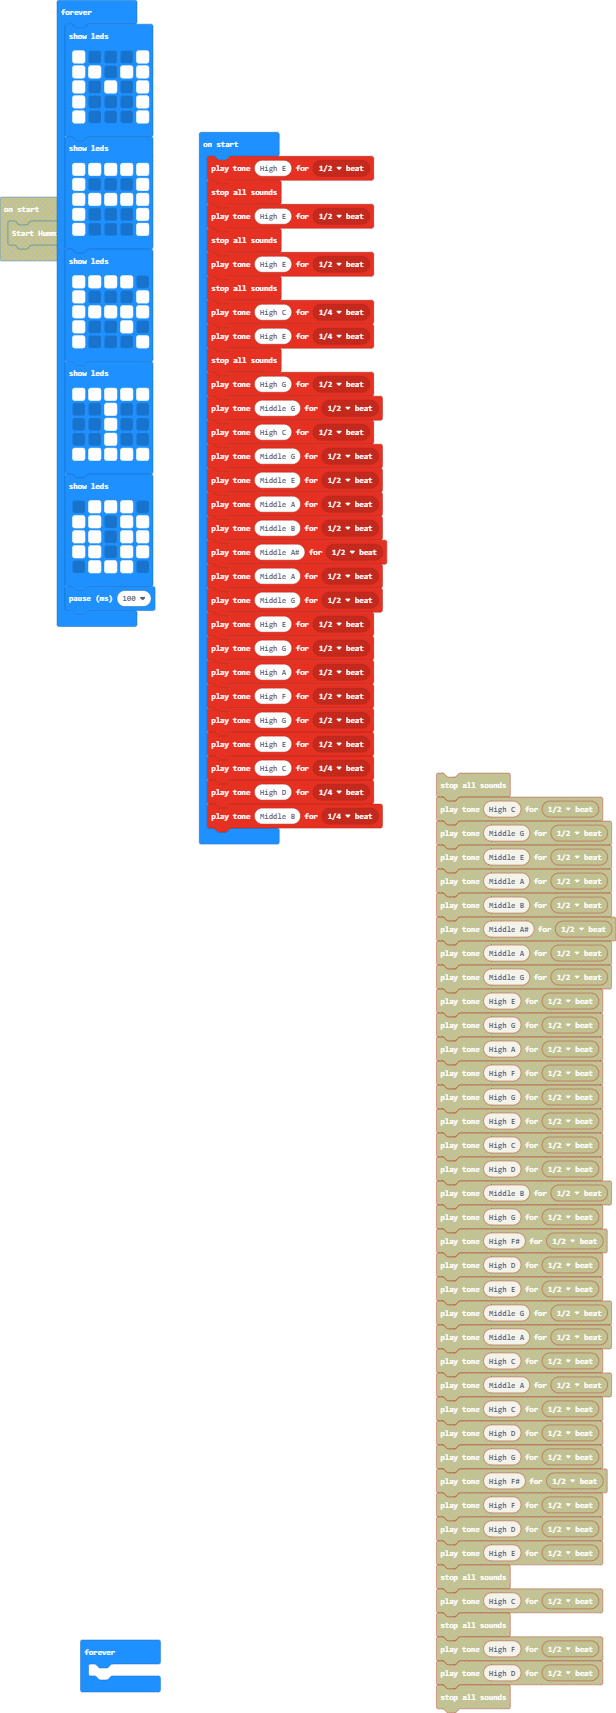
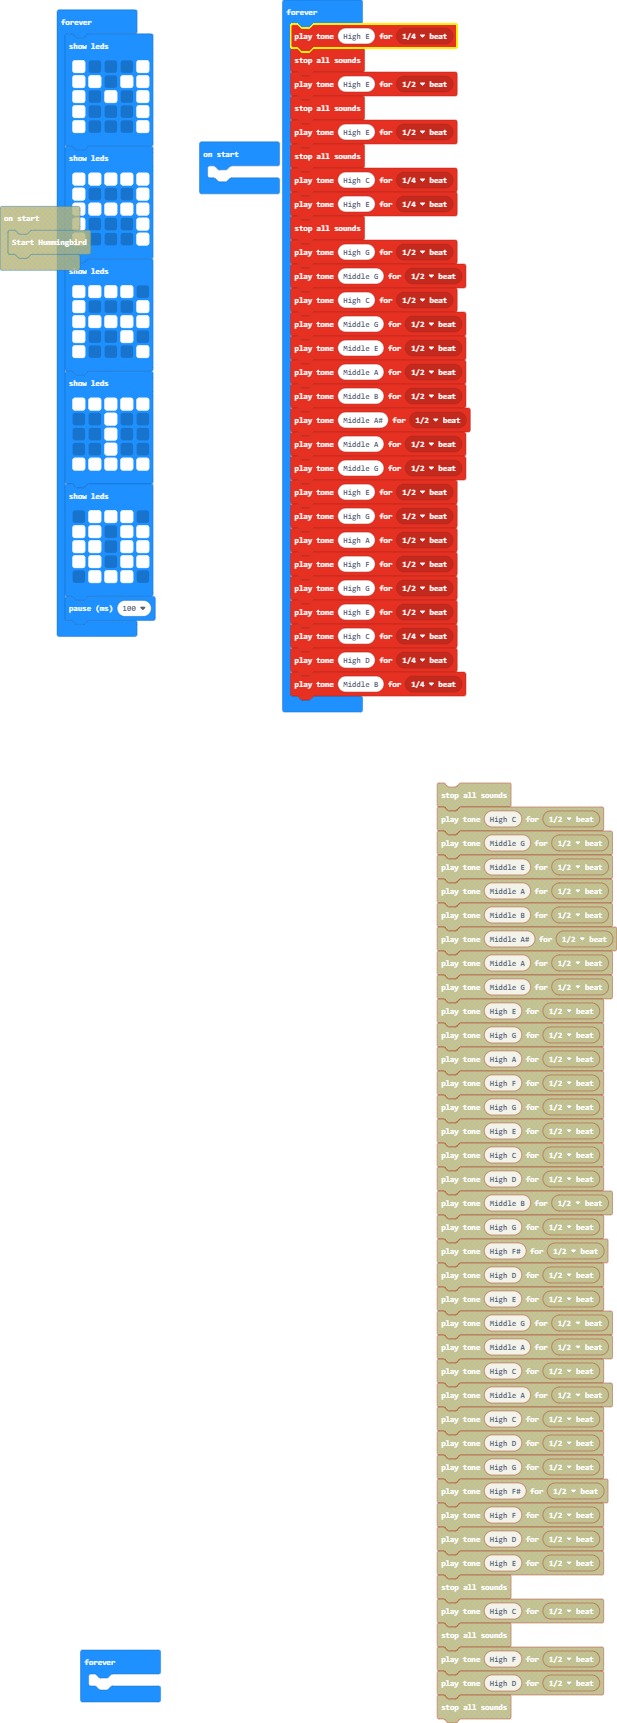
Update main.blocks, main.ts

Changed region(s): [[0.3084, 0.0, 0.7711, 0.495], [0.7094, 0.4332, 1.0, 0.9901], [0.0, 0.0, 0.2468, 0.3713]]

diff --git a/main.ts b/main.ts
@@ -1,31 +1,3 @@
-music.playTone(659, music.beat(BeatFraction.Half))
-music.stopAllSounds()
-music.playTone(659, music.beat(BeatFraction.Half))
-music.stopAllSounds()
-music.playTone(659, music.beat(BeatFraction.Half))
-music.stopAllSounds()
-music.playTone(523, music.beat(BeatFraction.Quarter))
-music.playTone(659, music.beat(BeatFraction.Quarter))
-music.stopAllSounds()
-music.playTone(784, music.beat(BeatFraction.Half))
-music.playTone(392, music.beat(BeatFraction.Half))
-music.playTone(523, music.beat(BeatFraction.Half))
-music.playTone(392, music.beat(BeatFraction.Half))
-music.playTone(330, music.beat(BeatFraction.Half))
-music.playTone(440, music.beat(BeatFraction.Half))
-music.playTone(494, music.beat(BeatFraction.Half))
-music.playTone(466, music.beat(BeatFraction.Half))
-music.playTone(440, music.beat(BeatFraction.Half))
-music.playTone(392, music.beat(BeatFraction.Half))
-music.playTone(659, music.beat(BeatFraction.Half))
-music.playTone(784, music.beat(BeatFraction.Half))
-music.playTone(880, music.beat(BeatFraction.Half))
-music.playTone(698, music.beat(BeatFraction.Half))
-music.playTone(784, music.beat(BeatFraction.Half))
-music.playTone(659, music.beat(BeatFraction.Half))
-music.playTone(523, music.beat(BeatFraction.Quarter))
-music.playTone(587, music.beat(BeatFraction.Quarter))
-music.playTone(494, music.beat(BeatFraction.Quarter))
 basic.forever(function () {
     basic.showLeds(`
         # . . . #
@@ -63,6 +35,36 @@ basic.forever(function () {
         . # # # .
         `)
     basic.pause(100)
+})
+basic.forever(function () {
+    music.playTone(659, music.beat(BeatFraction.Quarter))
+    music.stopAllSounds()
+    music.playTone(659, music.beat(BeatFraction.Half))
+    music.stopAllSounds()
+    music.playTone(659, music.beat(BeatFraction.Half))
+    music.stopAllSounds()
+    music.playTone(523, music.beat(BeatFraction.Quarter))
+    music.playTone(659, music.beat(BeatFraction.Quarter))
+    music.stopAllSounds()
+    music.playTone(784, music.beat(BeatFraction.Half))
+    music.playTone(392, music.beat(BeatFraction.Half))
+    music.playTone(523, music.beat(BeatFraction.Half))
+    music.playTone(392, music.beat(BeatFraction.Half))
+    music.playTone(330, music.beat(BeatFraction.Half))
+    music.playTone(440, music.beat(BeatFraction.Half))
+    music.playTone(494, music.beat(BeatFraction.Half))
+    music.playTone(466, music.beat(BeatFraction.Half))
+    music.playTone(440, music.beat(BeatFraction.Half))
+    music.playTone(392, music.beat(BeatFraction.Half))
+    music.playTone(659, music.beat(BeatFraction.Half))
+    music.playTone(784, music.beat(BeatFraction.Half))
+    music.playTone(880, music.beat(BeatFraction.Half))
+    music.playTone(698, music.beat(BeatFraction.Half))
+    music.playTone(784, music.beat(BeatFraction.Half))
+    music.playTone(659, music.beat(BeatFraction.Half))
+    music.playTone(523, music.beat(BeatFraction.Quarter))
+    music.playTone(587, music.beat(BeatFraction.Quarter))
+    music.playTone(494, music.beat(BeatFraction.Quarter))
 })
 basic.forever(function () {
 	
